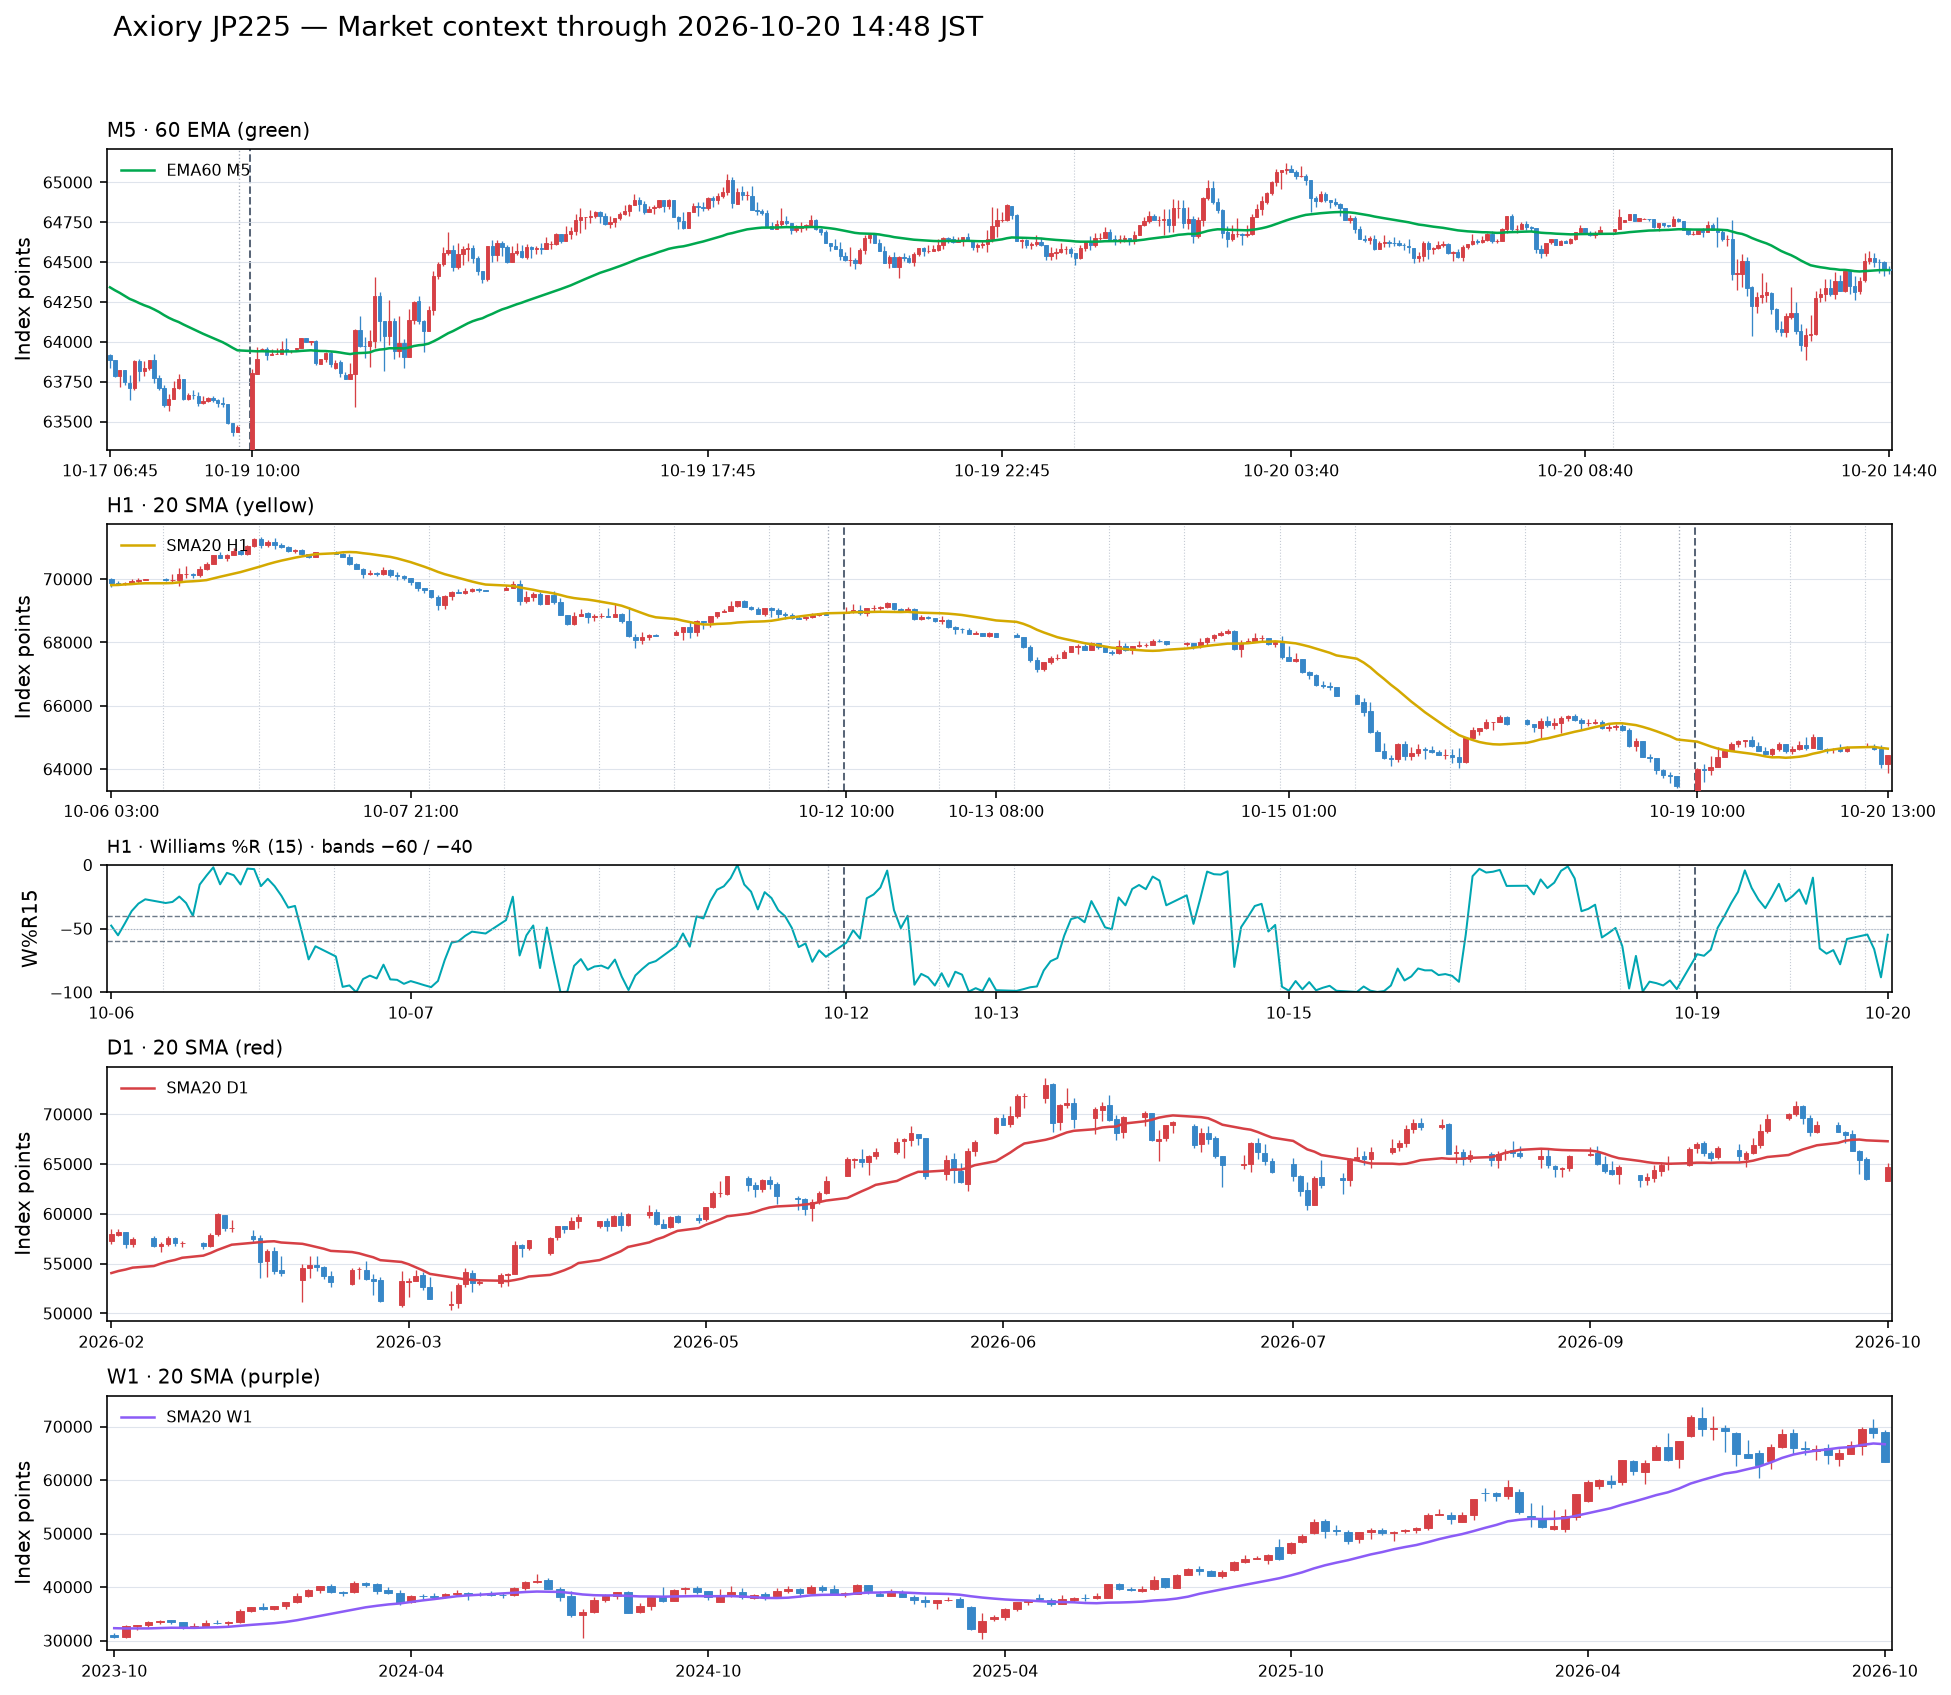
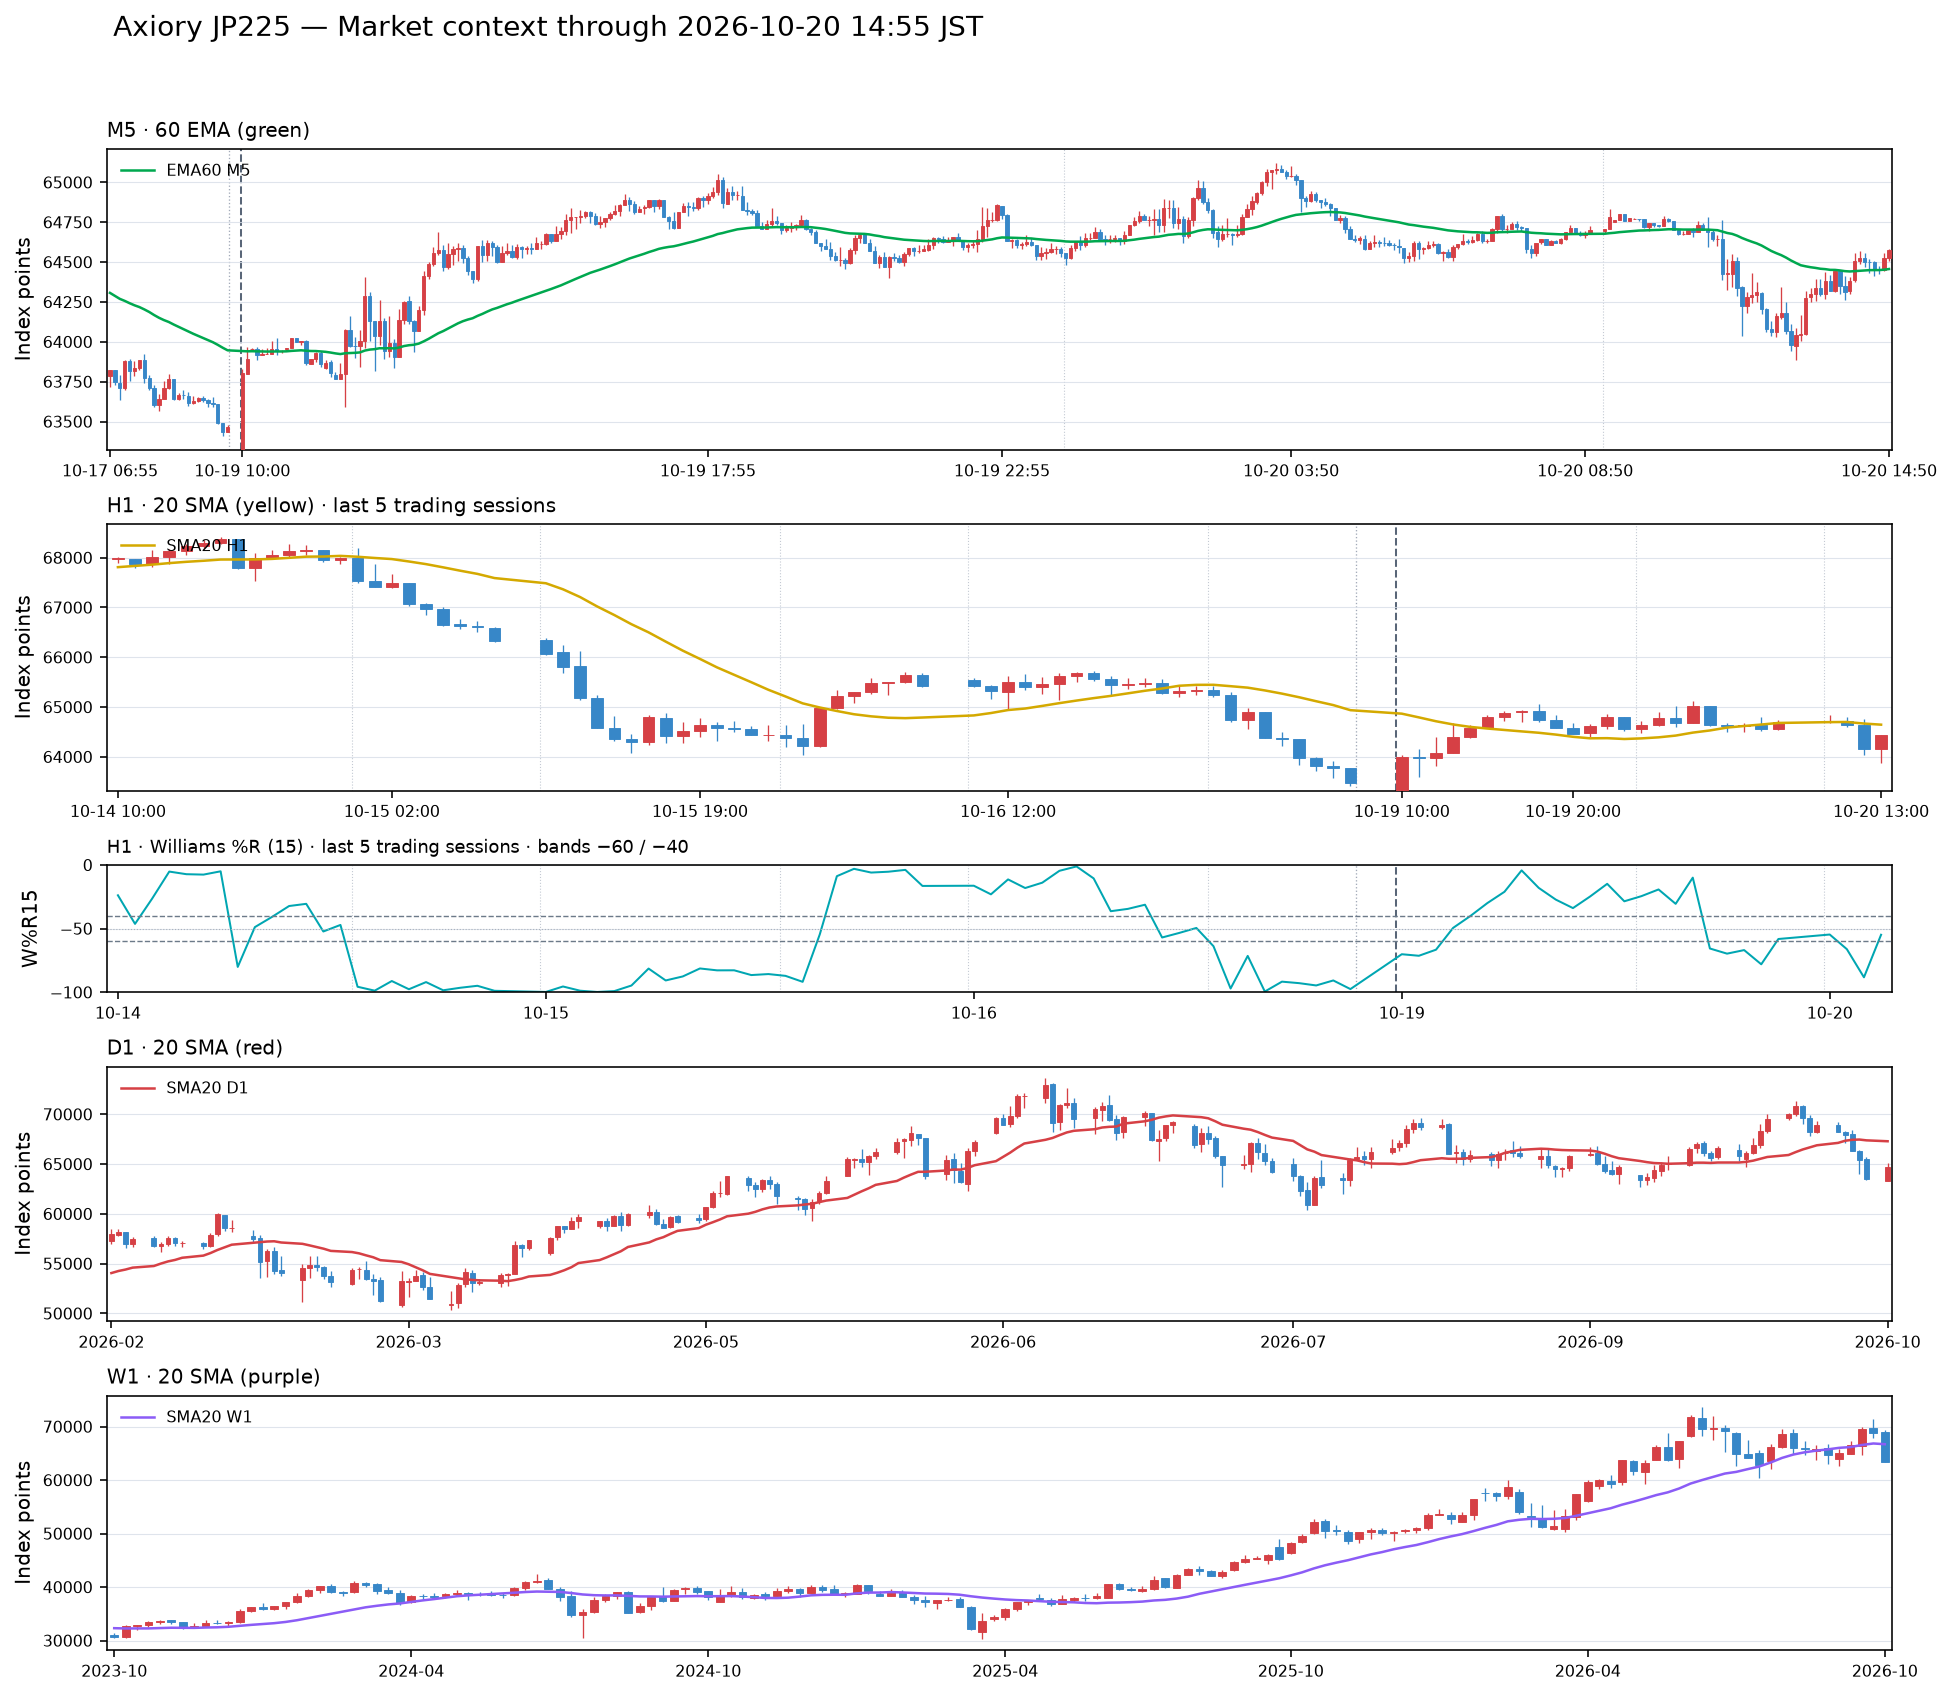
Zoom H1 market context to five trading sessions

diff --git a/scripts/update_market_context.py b/scripts/update_market_context.py
@@ -445,6 +445,20 @@ def bar_close_jst(open_time: pd.Timestamp, interval: timedelta) -> str:
     return close_time.strftime("%Y-%m-%d %H:%M")
 
 
+def tail_trading_days(frame: pd.DataFrame, count: int) -> pd.DataFrame:
+    """Keep bars from the latest JST trading sessions (09:00 JST rollover)."""
+    if frame.empty or count <= 0:
+        return frame.iloc[0:0].copy()
+    local_times = frame["time_utc"].dt.tz_convert(JST)
+    session_dates = local_times.dt.normalize()
+    session_dates = session_dates.where(
+        local_times.dt.hour >= 9,
+        session_dates - pd.Timedelta(days=1),
+    )
+    recent_sessions = session_dates.drop_duplicates().tail(count)
+    return frame.loc[session_dates.isin(recent_sessions)].copy()
+
+
 def read_metrics(symbol: str, digits: int) -> dict[str, Any]:
     frames = {
         timeframe: calculate_indicators(read_existing(data_path(symbol, timeframe)))
@@ -598,6 +612,26 @@ def set_compressed_time_ticks(
     axis.set_xlim(x_values[0] - 0.65, x_values[-1] + 0.65)
 
 
+def set_trading_date_ticks(axis: Any, local_times: list[datetime], x_values: list[float]) -> None:
+    """Label each visible JST trading session once, rolling at 09:00 JST."""
+    if not local_times:
+        return
+    tick_indices: list[int] = []
+    session_dates = []
+    previous_date = None
+    for index, timestamp in enumerate(local_times):
+        session_date = timestamp.date()
+        if timestamp.hour < 9:
+            session_date -= timedelta(days=1)
+        session_dates.append(session_date)
+        if session_date != previous_date:
+            tick_indices.append(index)
+            previous_date = session_date
+    axis.set_xticks([x_values[index] for index in tick_indices])
+    axis.set_xticklabels([session_dates[index].strftime("%m-%d") for index in tick_indices])
+    axis.set_xlim(x_values[0] - 0.65, x_values[-1] + 0.65)
+
+
 def add_intraday_date_lines(
     axis: Any,
     local_times: list[datetime],
@@ -656,19 +690,20 @@ def create_market_chart(symbol: str, digits: int, chart_dir: Path, generated_at:
     plot_candles(axes[0], frames["M5"], "M5", 360, "ema60", "EMA60 M5", "#00a84f")
     axes[0].set_title("M5 · 60 EMA (green)", loc="left", fontsize=10)
 
+    h1_plot_data = tail_trading_days(frames["H1"], 5)
     h1_view, h1_x, h1_times = plot_candles(
-        axes[1], frames["H1"], "H1", 240, "sma20", "SMA20 H1", "#d4a900"
+        axes[1], h1_plot_data, "H1", len(h1_plot_data), "sma20", "SMA20 H1", "#d4a900"
     )
-    axes[1].set_title("H1 · 20 SMA (yellow)", loc="left", fontsize=10)
+    axes[1].set_title("H1 · 20 SMA (yellow) · last 5 trading sessions", loc="left", fontsize=10)
     axes[2].plot(h1_x, h1_view["wpr15"], color="#00a6b2", linewidth=1.0)
     axes[2].axhline(-40, color="#6c7a89", linewidth=0.7, linestyle="--")
     axes[2].axhline(-60, color="#6c7a89", linewidth=0.7, linestyle="--")
     axes[2].axhline(-50, color="#aab2bd", linewidth=0.55, linestyle=":")
     axes[2].set_ylim(-100, 0)
     axes[2].set_ylabel("W%R15")
-    axes[2].set_title("H1 · Williams %R (15) · bands −60 / −40", loc="left", fontsize=9)
+    axes[2].set_title("H1 · Williams %R (15) · last 5 trading sessions · bands −60 / −40", loc="left", fontsize=9)
     axes[2].grid(axis="y", color="#d8dee8", linewidth=0.5, alpha=0.8)
-    set_compressed_time_ticks(axes[2], h1_times, h1_x, "H1", date_format="%m-%d")
+    set_trading_date_ticks(axes[2], h1_times, h1_x)
     add_intraday_date_lines(axes[2], h1_times, h1_x, "H1", 0.68)
 
     plot_candles(axes[3], frames["D1"], "D1", 180, "sma20", "SMA20 D1", "#d64045")
@@ -700,7 +735,7 @@ def build_daily_markdown(
         f"- 生成時刻: {generated_at.astimezone(JST).strftime('%Y-%m-%d %H:%M:%S JST')}",
         "- データ元: Axiory MetaTrader 5（銘柄名 JP225 / US100）。別口座のJP225Cash/US100Cashとは価格系列が異なります。",
         "- 時刻: CSVはUTC。日誌とチャートはJST。未確定足を除外しています。",
-        "- チャート表示: 足データのない時間帯は圧縮し、M5/H1にはJSTの日付線、月曜の最初のOPENには強調線を表示します。",
+        "- チャート表示: 足データのない時間帯は圧縮します。H1とW%Rは直近5取引日（JST 09:00区切り）を表示し、M5/H1/W%RにはJSTの日付線、月曜の最初のOPENには強調線を表示します。",
         "- 指標の読み方とチャート規約: [市場コンテキストのレシピ](../../market_context_recipe.md)",
         "",
         "| 銘柄 | M5終値 / EMA60（緑） | H1終値 / SMA20（黄） | W%R15 H1 | D1終値 / SMA20（赤） | W1終値 / SMA20（紫） | PO H1 / D1 / W1 |",

diff --git a/diaries/2026-10-20/market_context/market_context.md b/diaries/2026-10-20/market_context/market_context.md
@@ -1,15 +1,15 @@
 # US100・JP225 日次マーケット指標 — 2026-10-20（JST）
 
-- 生成時刻: 2026-10-20 14:48:02 JST
+- 生成時刻: 2026-10-20 14:55:30 JST
 - データ元: Axiory MetaTrader 5（銘柄名 JP225 / US100）。別口座のJP225Cash/US100Cashとは価格系列が異なります。
 - 時刻: CSVはUTC。日誌とチャートはJST。未確定足を除外しています。
-- チャート表示: 足データのない時間帯は圧縮し、M5/H1にはJSTの日付線、月曜の最初のOPENには強調線を表示します。
+- チャート表示: 足データのない時間帯は圧縮します。H1とW%Rは直近5取引日（JST 09:00区切り）を表示し、M5/H1/W%RにはJSTの日付線、月曜の最初のOPENには強調線を表示します。
 - 指標の読み方とチャート規約: [市場コンテキストのレシピ](../../market_context_recipe.md)
 
 | 銘柄 | M5終値 / EMA60（緑） | H1終値 / SMA20（黄） | W%R15 H1 | D1終値 / SMA20（赤） | W1終値 / SMA20（紫） | PO H1 / D1 / W1 |
 |---|---|---|---:|---|---|---|
-| JP225 | 64,451.83 / 64,449.60（終値が上） | 64,441.83 / 64,645.27（終値が下） | -54.85 中立帯（-60～-40） | 64,701.60 / 67,286.71（終値が下） | 63,465.86 / 66,702.04（終値が下） | 下降PO / なし / 上昇PO |
-| US100 | 29,550.06 / 29,534.25（終値が上） | 29,555.56 / 29,571.45（終値が下） | -60.09 下側（≤ -60） | 29,558.42 / 30,495.82（終値が下） | 29,197.16 / 29,536.95（終値が下） | なし / なし / 上昇PO |
+| JP225 | 64,576.83 / 64,456.14（終値が上） | 64,441.83 / 64,645.27（終値が下） | -54.85 中立帯（-60～-40） | 64,701.60 / 67,286.71（終値が下） | 63,465.86 / 66,702.04（終値が下） | 下降PO / なし / 上昇PO |
+| US100 | 29,585.20 / 29,536.83（終値が上） | 29,555.56 / 29,571.45（終値が下） | -60.09 下側（≤ -60） | 29,558.42 / 30,495.82（終値が下） | 29,197.16 / 29,536.95（終値が下） | なし / なし / 上昇PO |
 
 ## ソースCSV
 
@@ -30,15 +30,15 @@
 
 | 銘柄 | 足 | 保存本数 | 全履歴の最古足（JST） | 最終足の終了時刻（JST） | 今回の差分 |
 |---|---|---:|---|---|---:|
-| JP225 | M1 | 543,780 | 2025-04-07 10:00 | 2026-10-20 14:48 | 310本 |
-| JP225 | M5 | 109,034 | 2025-04-07 10:00 | 2026-10-20 14:45 | 63本 |
-| JP225 | H1 | 9,097 | 2025-04-07 10:00 | 2026-10-20 14:00 | 5本 |
-| JP225 | D1 | 981 | 2023-01-03 09:00 | 2026-10-20 09:00 | 1本 |
+| JP225 | M1 | 543,787 | 2025-04-07 10:00 | 2026-10-20 14:55 | 1本 |
+| JP225 | M5 | 109,036 | 2025-04-07 10:00 | 2026-10-20 14:55 | 1本 |
+| JP225 | H1 | 9,097 | 2025-04-07 10:00 | 2026-10-20 14:00 | 0本 |
+| JP225 | D1 | 981 | 2023-01-03 09:00 | 2026-10-20 09:00 | 0本 |
 | JP225 | W1 | 197 | 2023-01-08 09:00 | 2026-10-18 09:00 | 0本 |
-| US100 | M1 | 543,646 | 2025-04-07 10:00 | 2026-10-20 14:48 | 316本 |
-| US100 | M5 | 108,746 | 2025-04-07 10:00 | 2026-10-20 14:45 | 63本 |
-| US100 | H1 | 9,072 | 2025-04-07 10:00 | 2026-10-20 14:00 | 5本 |
-| US100 | D1 | 981 | 2023-01-03 09:00 | 2026-10-20 09:00 | 1本 |
+| US100 | M1 | 543,653 | 2025-04-07 10:00 | 2026-10-20 14:55 | 1本 |
+| US100 | M5 | 108,748 | 2025-04-07 10:00 | 2026-10-20 14:55 | 1本 |
+| US100 | H1 | 9,072 | 2025-04-07 10:00 | 2026-10-20 14:00 | 0本 |
+| US100 | D1 | 981 | 2023-01-03 09:00 | 2026-10-20 09:00 | 0本 |
 | US100 | W1 | 197 | 2023-01-08 09:00 | 2026-10-18 09:00 | 0本 |
 
 ## 計算ルール

diff --git a/diaries/market_context_recipe.md b/diaries/market_context_recipe.md
@@ -36,12 +36,12 @@
 銘柄ごとに1枚の多時間足PNGを作ります。縦に次の5パネルを並べます。各足は実際の日時順を保ちつつ、OHLCデータがない区間の実時間幅を使わず、固定の短い間隔に圧縮します。M5/H1/W%RにはJSTの日付切替線を引き、週末をまたぐ場合は前回取引の終了位置と月曜の最初の足（OPEN）を別の垂直線で示します。データのない足は作りません。
 
 1. M5ローソク足（直近360本）+ EMA60（緑）
-2. H1ローソク足（直近240本）+ SMA20（黄）
-3. H1 W%R(15)（直近240本）+ -60 / -50 / -40の水平線（シアン）
+2. H1ローソク足（直近5取引日）+ SMA20（黄）
+3. H1 W%R(15)（直近5取引日）+ -60 / -50 / -40の水平線（シアン）
 4. D1ローソク足（直近180本）+ SMA20（赤）
 5. W1ローソク足（直近156本）+ SMA20（紫）
 
-ローソクは上昇=赤、下落=青。縦軸は指数ポイント、横軸はJSTです。マスター履歴全体で指標を計算した後、表示範囲だけを切り出します。
+ローソクは上昇=赤、下落=青。縦軸は指数ポイント、横軸はJSTです。H1とW%RはJST 09:00を取引日の区切りとし、直近5取引日を表示します。09:00より前の足は前営業日のセッションに含めるため、金曜セッションの土曜朝の終盤も表示されます。マスター履歴全体で指標を計算した後、表示範囲だけを切り出すため、表示範囲より前の足もSMA20とW%R(15)の計算に使われます。
 
 ## 日誌への追加
 

diff --git a/diaries/2026-10-20/diary_20261020.md b/diaries/2026-10-20/diary_20261020.md
@@ -427,3 +427,27 @@
 - [ ] 下限で一部利確した場合と、一括決済した場合の結果の違い。
 
 タグ：#引け後振り返り #アドバンテスト #デモ売り #レンジ往復 #上限からの売り #追加売り #切り番 #買い支え #分割利確検証 #期待と実際の値動き
+
+<!-- AUTO MARKET CONTEXT START -->
+## 指数の定量マーケットコンテキスト（Axiory）
+
+> データ取得: 2026-10-20 14:55 JST。Axiory `JP225` / `US100` の参考値です。
+> `JP225Cash` / `US100Cash` を扱う別口座とは価格系列が異なるため、約定価格や損益の照合には使いません。
+
+| 銘柄 | M5終値 / EMA60 | H1終値 / SMA20 | H1 W%R15 | D1終値 / SMA20 | W1終値 / SMA20 | PO H1 / D1 / W1 |
+|---|---|---|---:|---|---|---|
+| JP225 | 64,576.83 / 64,456.14 | 64,441.83 / 64,645.27 | -54.85 中立帯（-60～-40） | 64,701.60 / 67,286.71 | 63,465.86 / 66,702.04 | 下降PO / なし / 上昇PO |
+| US100 | 29,585.20 / 29,536.83 | 29,555.56 / 29,571.45 | -60.09 下側（≤ -60） | 29,558.42 / 30,495.82 | 29,197.16 / 29,536.95 | なし / なし / 上昇PO |
+
+- [指標レポート・対象期間・元CSV](market_context/market_context.md)
+- [計算・チャート作成レシピ](../market_context_recipe.md)
+
+### JP225（Axiory）
+
+![Axiory JP225 M5/H1/D1/W1 chart](market_context/JP225_market_context.png)
+
+### US100（Axiory）
+
+![Axiory US100 M5/H1/D1/W1 chart](market_context/US100_market_context.png)
+
+<!-- AUTO MARKET CONTEXT END -->
